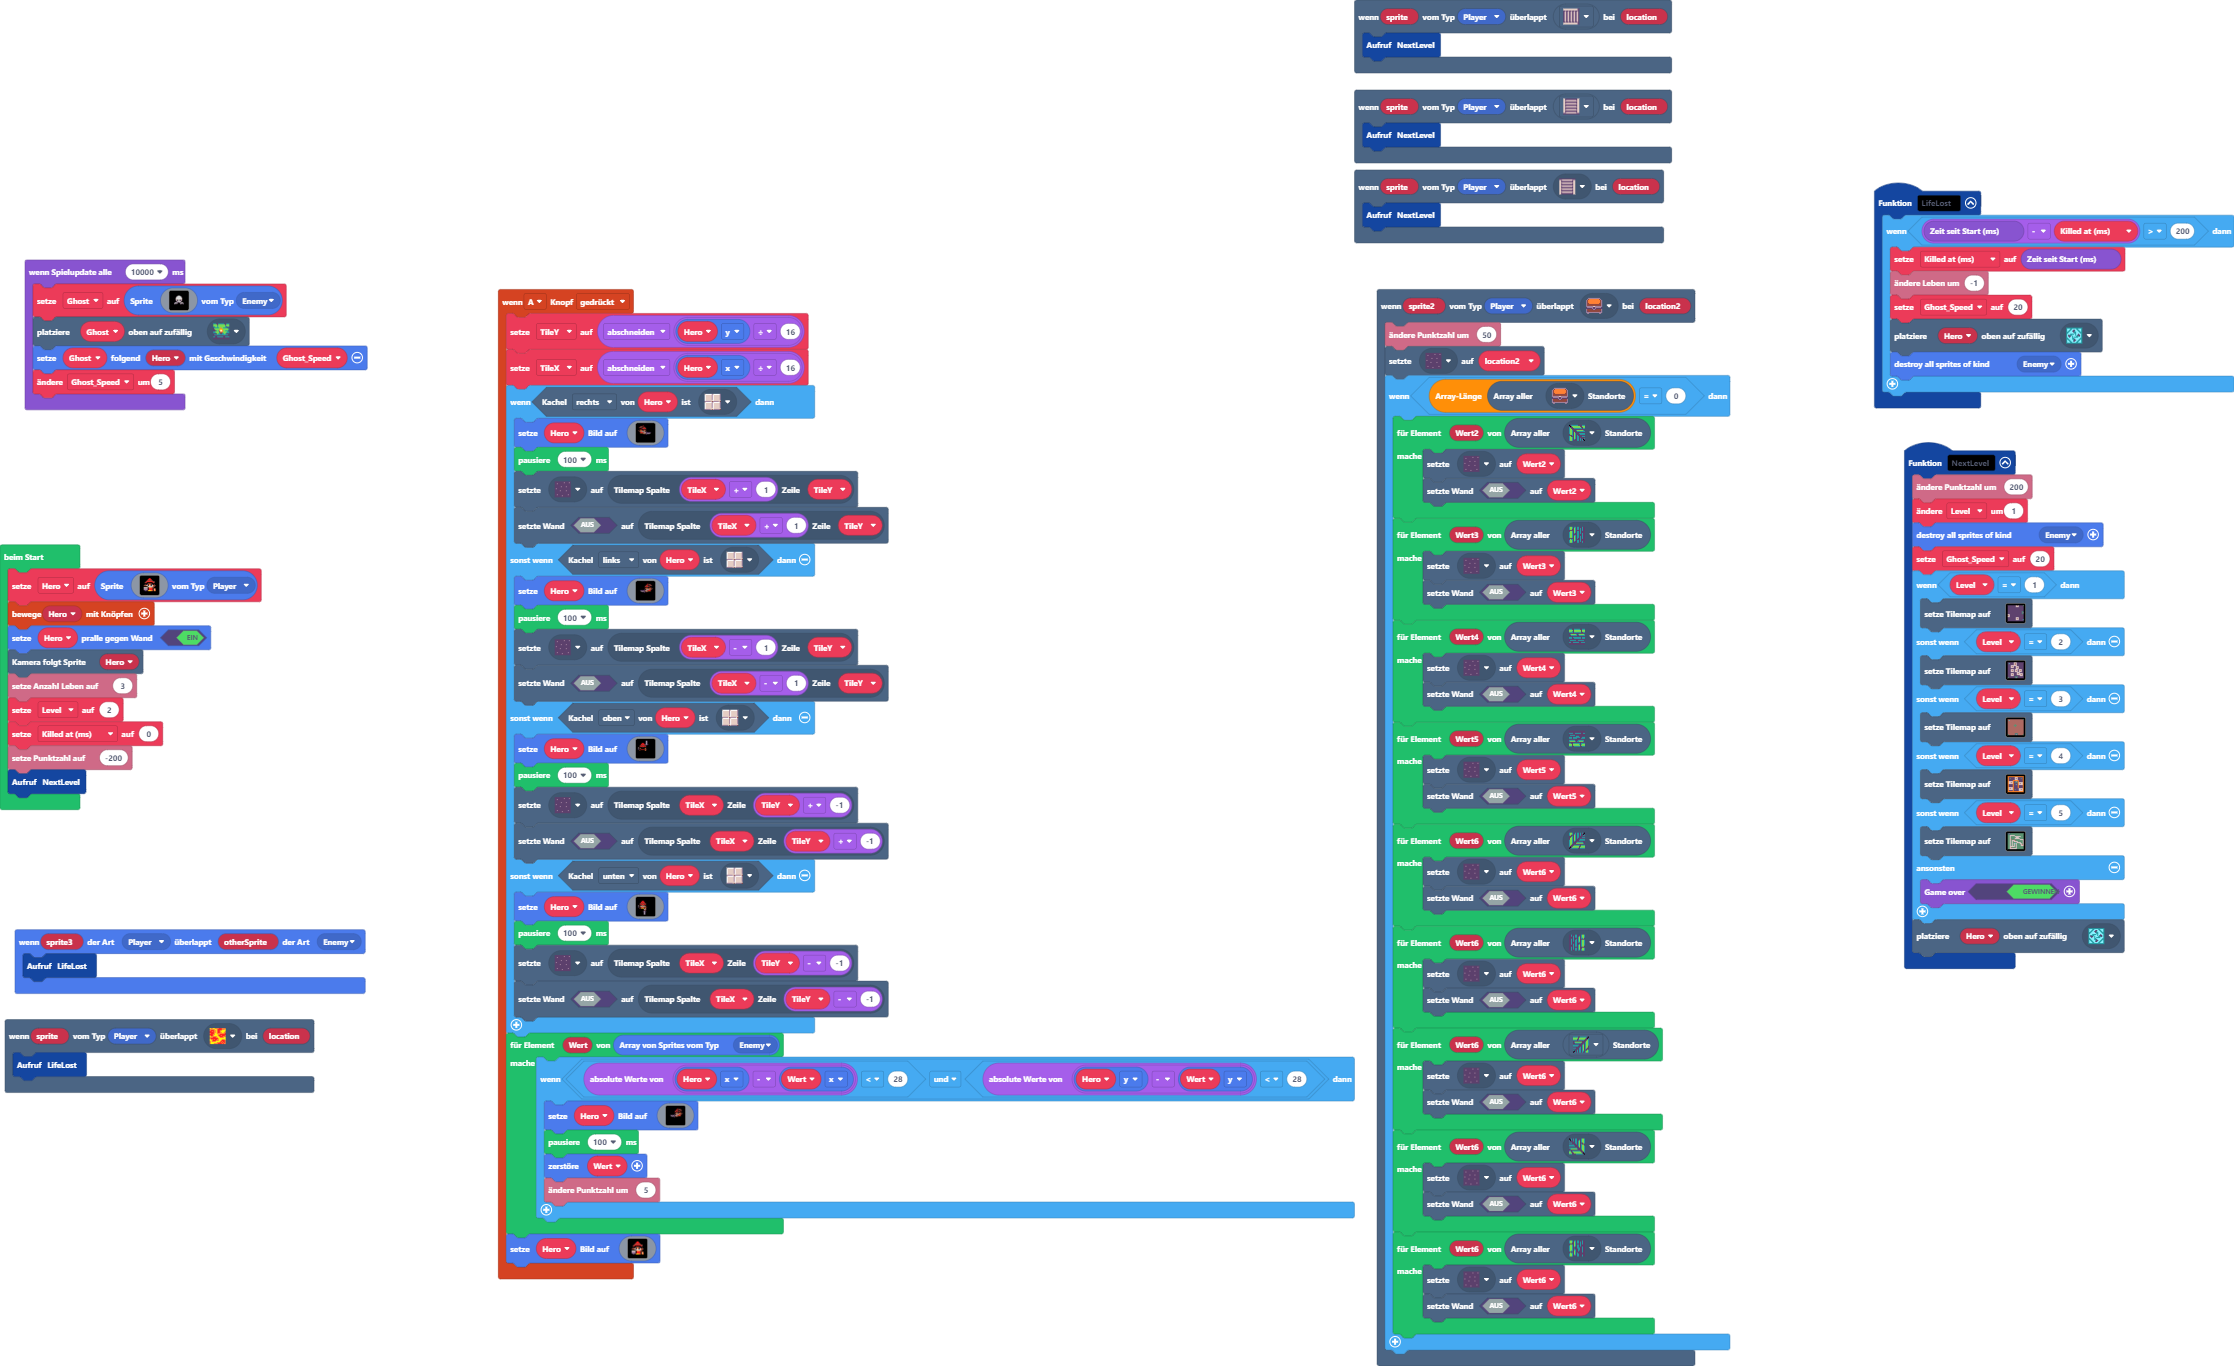
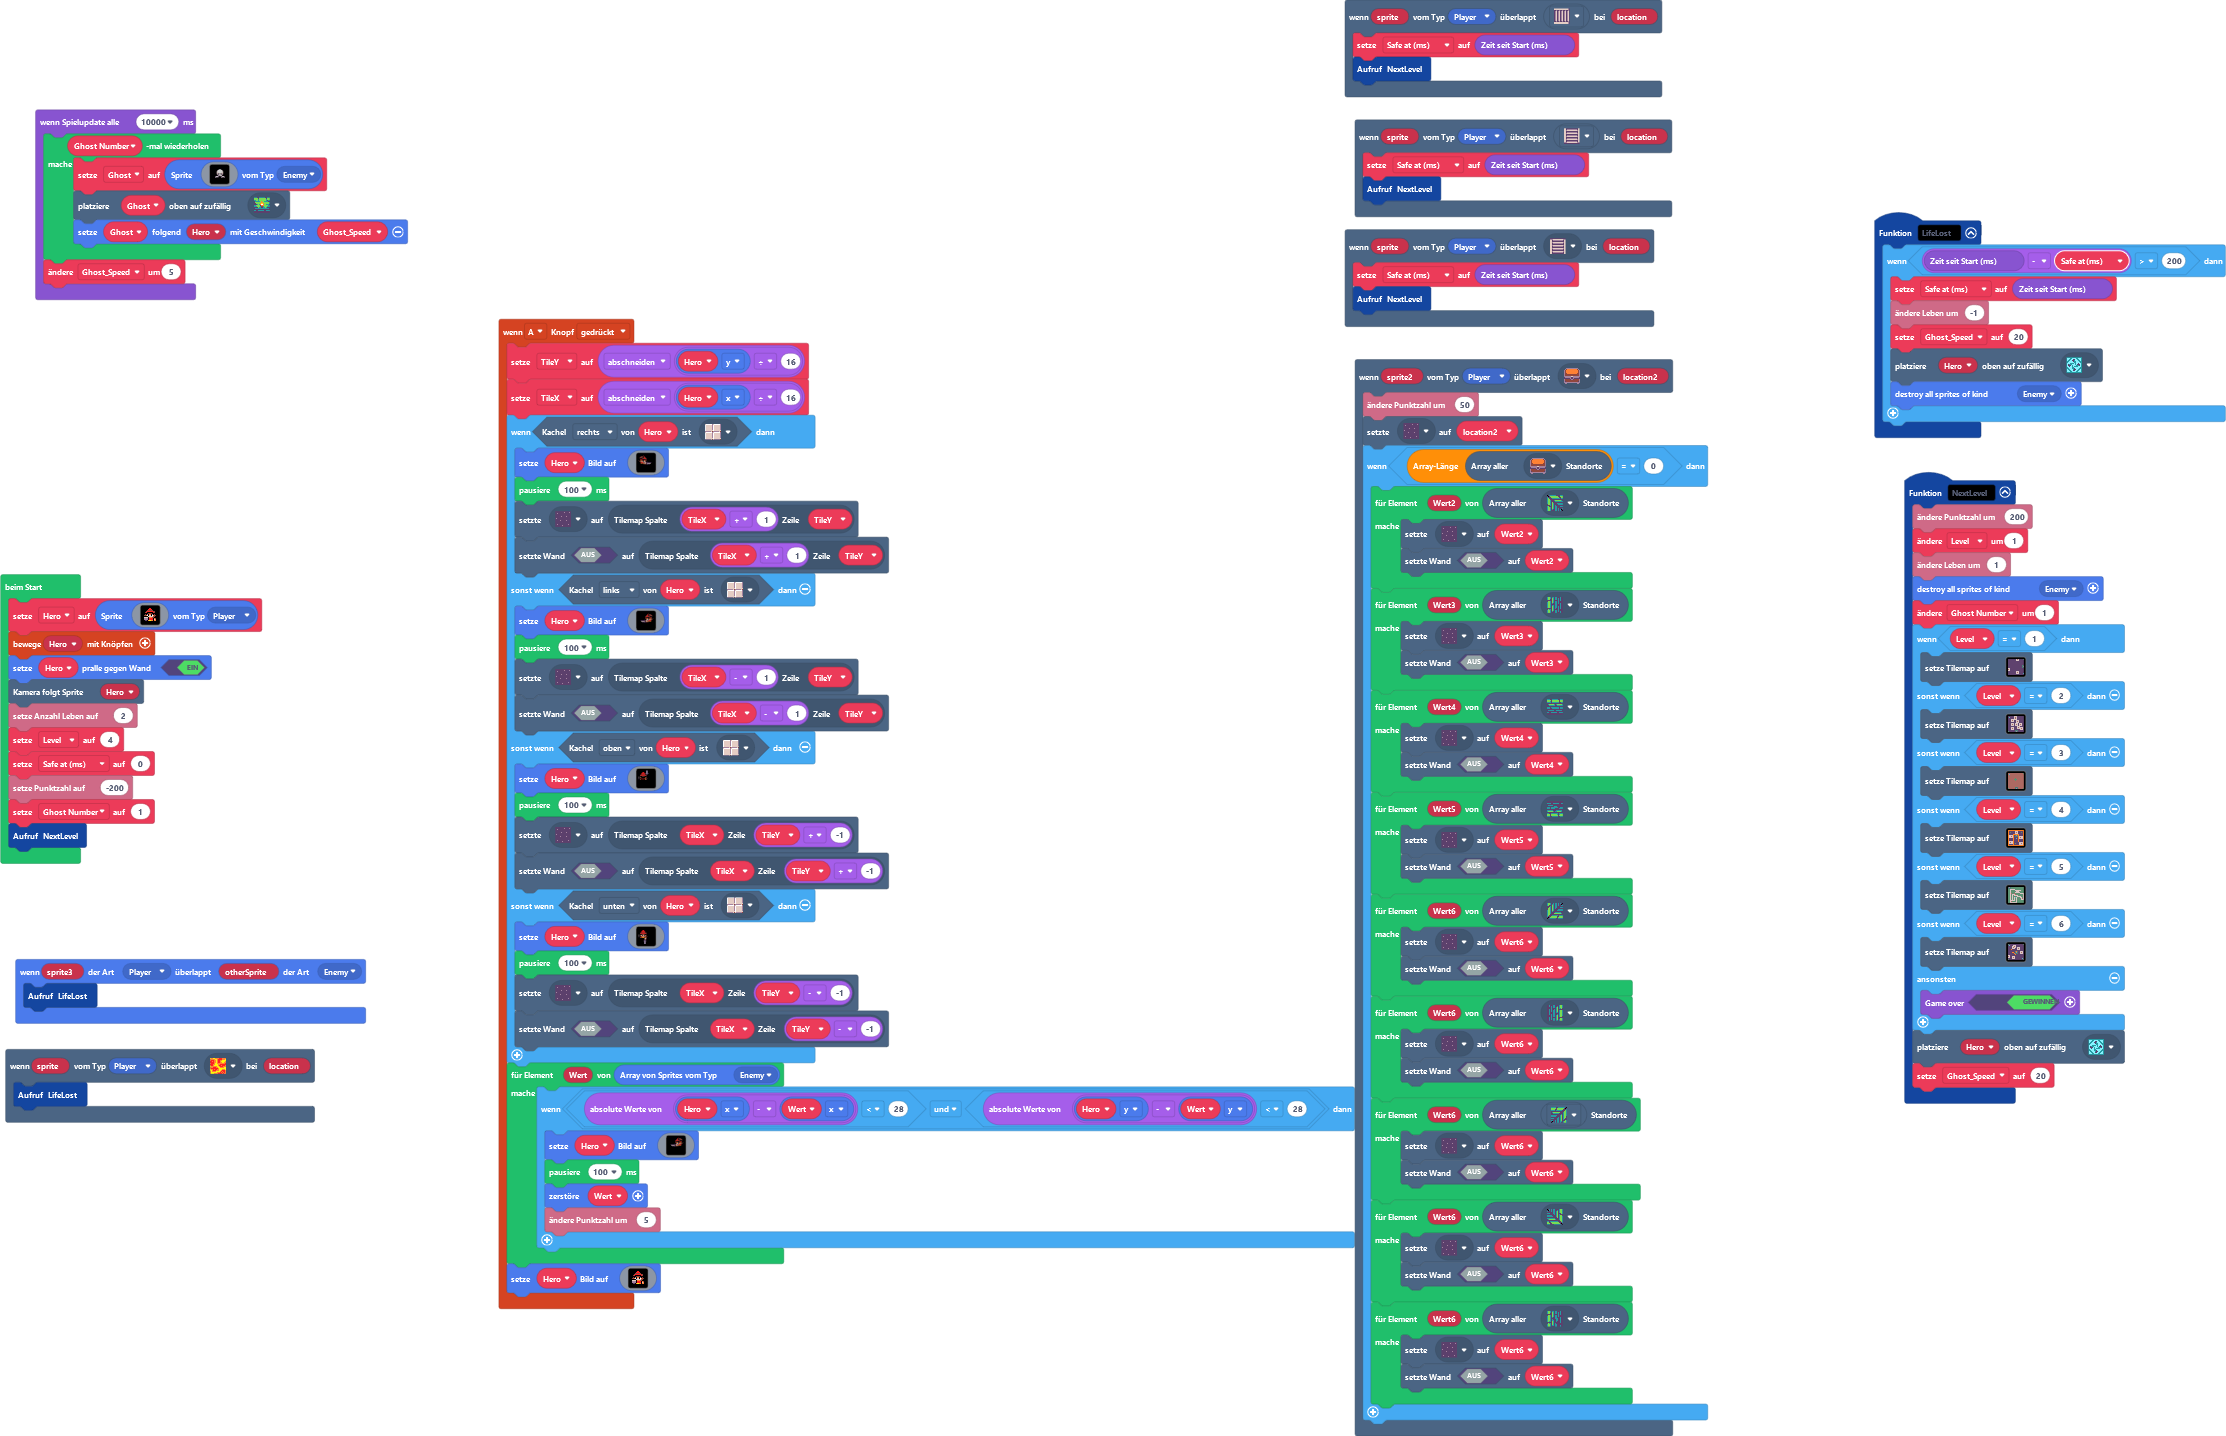
Aktualisiere main.blocks, main.ts, tilemap.g.jres, tilemap.g.ts

diff --git a/tilemap.g.ts b/tilemap.g.ts
@@ -83,25 +83,6 @@ namespace myTiles {
 . . . . . . . . . . . 2 2 2 2 . 
 . . . . . . . . . . . . . . . . 
 `, [myTiles.transparency16,myTiles.tile1,sprites.dungeon.hazardLava1,sprites.dungeon.darkGroundCenter,sprites.dungeon.collectibleInsignia,sprites.dungeon.greenOuterSouth0,sprites.dungeon.greenOuterSouthEast,sprites.dungeon.greenOuterSouthWest,sprites.dungeon.greenOuterWest1,sprites.dungeon.greenOuterEast0,sprites.dungeon.chestClosed,sprites.dungeon.greenOuterNorth2,sprites.dungeon.stairSouth], TileScale.Sixteen);
-            case "Level4":
-            case "Level4":return tiles.createTilemap(hex`1000100000000000000000000000000000000000000000000000000000000000000000000000000000000000000000000000000000000000000000000000000000000000000000000000000000000000000000000000000000000000000000000000000000000000000000000000000000000000000000000000000000000000000000000000000000000000000000000000000000000000000000000000000000000000000000000000000000000000000000000000000000000000000000000000000000000000000000000000000000000000000000000000000000000000000000000000000000000000000000000000000000000000000000000000000000000000`, img`
-. . . . . . . . . . . . . . . . 
-. . . . . . . . . . . . . . . . 
-. . . . . . . . . . . . . . . . 
-. . . . . . . . . . . . . . . . 
-. . . . . . . . . . . . . . . . 
-. . . . . . . . . . . . . . . . 
-. . . . . . . . . . . . . . . . 
-. . . . . . . . . . . . . . . . 
-. . . . . . . . . . . . . . . . 
-. . . . . . . . . . . . . . . . 
-. . . . . . . . . . . . . . . . 
-. . . . . . . . . . . . . . . . 
-. . . . . . . . . . . . . . . . 
-. . . . . . . . . . . . . . . . 
-. . . . . . . . . . . . . . . . 
-. . . . . . . . . . . . . . . . 
-`, [myTiles.transparency16], TileScale.Sixteen);
             case "Level_5":
[1 lines of base64/hex data omitted]
 2 . 2 . . . . . . . . . . . . . 
@@ -121,6 +102,44 @@ namespace myTiles {
 . . 2 . . . . . 2 . . . . . . . 
 . . 2 2 2 2 2 2 2 . . . . . . . 
 `, [myTiles.transparency16,myTiles.tile1,sprites.dungeon.collectibleInsignia,sprites.dungeon.greenOuterNorth2,sprites.dungeon.chestClosed,sprites.dungeon.stairNorth,sprites.dungeon.greenOuterSouthEast,sprites.dungeon.greenOuterSouthWest,sprites.dungeon.greenOuterSouth0,sprites.dungeon.greenOuterWest1,sprites.dungeon.greenOuterEast0], TileScale.Sixteen);
+            case "Level5":
+            case "Level5":return tiles.createTilemap(hex`1000100000000000000000000000000000000000000000000000000000000000000000000000000000000000000000000000000000000000000000000000000000000000000000000000000000000000000000000000000000000000000000000000000000000000000000000000000000000000000000000000000000000000000000000000000000000000000000000000000000000000000000000000000000000000000000000000000000000000000000000000000000000000000000000000000000000000000000000000000000000000000000000000000000000000000000000000000000000000000000000000000000000000000000000000000000000000`, img`
+. . . . . . . . . . . . . . . . 
+. . . . . . . . . . . . . . . . 
+. . . . . . . . . . . . . . . . 
+. . . . . . . . . . . . . . . . 
+. . . . . . . . . . . . . . . . 
+. . . . . . . . . . . . . . . . 
+. . . . . . . . . . . . . . . . 
+. . . . . . . . . . . . . . . . 
+. . . . . . . . . . . . . . . . 
+. . . . . . . . . . . . . . . . 
+. . . . . . . . . . . . . . . . 
+. . . . . . . . . . . . . . . . 
+. . . . . . . . . . . . . . . . 
+. . . . . . . . . . . . . . . . 
+. . . . . . . . . . . . . . . . 
+. . . . . . . . . . . . . . . . 
+`, [myTiles.transparency16], TileScale.Sixteen);
+            case "Level_6":
[1 lines of base64/hex data omitted]
+. . . . . . . . . . . . . . . . 
+. . . . . 2 2 2 . . . . . . . . 
+. . . . 2 2 . 2 . . . . . . . . 
+. . . . 2 . 2 2 . 2 2 2 . . . . 
+. . . . 2 2 2 . . 2 . 2 . . . . 
+. . . . . . . . . 2 2 2 . . . . 
+. . . . . . . . . . . . . . . . 
+. . . . . . . . . 2 . . 2 2 2 . 
+. . . . . . . 2 . 2 . . 2 . 2 . 
+. . . . . . . 2 2 2 . . 2 2 2 . 
+. . . . . . . . . . . . . . . . 
+2 2 . . . . . . . . . . . . . . 
+. 2 . . 2 2 2 . . . . . . . . . 
+2 2 . . 2 . 2 . . . . . . . . . 
+. . . . 2 2 2 . . . . . . . . . 
+. . . . . . . . . . . . . . . . 
+`, [myTiles.transparency16,sprites.dungeon.darkGroundCenter,sprites.dungeon.collectibleInsignia,sprites.dungeon.hazardLava0,sprites.dungeon.greenOuterNorth2,myTiles.tile1,sprites.dungeon.stairSouth,sprites.dungeon.greenOuterSouthEast,sprites.dungeon.greenOuterSouth0,sprites.dungeon.greenOuterSouthWest,sprites.dungeon.greenOuterEast0,sprites.dungeon.greenOuterWest0,sprites.dungeon.greenOuterNorthEast,sprites.dungeon.chestClosed], TileScale.Sixteen);
         }
         return null;
     })

diff --git a/main.ts b/main.ts
@@ -1,4 +1,5 @@
 scene.onOverlapTile(SpriteKind.Player, sprites.dungeon.stairNorth, function (sprite, location) {
+    Safe_at_ms = game.runtime()
     NextLevel()
 })
 sprites.onOverlap(SpriteKind.Player, SpriteKind.Enemy, function (sprite3, otherSprite) {
@@ -39,6 +40,7 @@ controller.A.onEvent(ControllerButtonEvent.Pressed, function () {
     Hero.setImage(assets.image`Normal`)
 })
 scene.onOverlapTile(SpriteKind.Player, sprites.dungeon.stairWest, function (sprite, location) {
+    Safe_at_ms = game.runtime()
     NextLevel()
 })
 scene.onOverlapTile(SpriteKind.Player, sprites.dungeon.chestClosed, function (sprite2, location2) {
@@ -87,8 +89,8 @@ scene.onOverlapTile(SpriteKind.Player, sprites.dungeon.hazardLava1, function (sp
     LifeLost()
 })
 function LifeLost () {
-    if (game.runtime() - Killed_at_ms > 200) {
-        Killed_at_ms = game.runtime()
+    if (game.runtime() - Safe_at_ms > 200) {
+        Safe_at_ms = game.runtime()
         info.changeLifeBy(-1)
         Ghost_Speed = 20
         tiles.placeOnRandomTile(Hero, sprites.dungeon.collectibleInsignia)
@@ -98,8 +100,9 @@ function LifeLost () {
 function NextLevel () {
     info.changeScoreBy(200)
     Level += 1
+    info.changeLifeBy(1)
     sprites.destroyAllSpritesOfKind(SpriteKind.Enemy)
-    Ghost_Speed = 20
+    Ghost_Number += 1
     if (Level == 1) {
         tiles.setTilemap(tilemap`Level_1`)
     } else if (Level == 2) {
@@ -110,33 +113,40 @@ function NextLevel () {
         tiles.setTilemap(tilemap`Level_4`)
     } else if (Level == 5) {
         tiles.setTilemap(tilemap`Level_5`)
+    } else if (Level == 6) {
+        tiles.setTilemap(tilemap`Level_6`)
     } else {
         game.over(true)
     }
     tiles.placeOnRandomTile(Hero, sprites.dungeon.collectibleInsignia)
+    Ghost_Speed = 20
 }
 scene.onOverlapTile(SpriteKind.Player, sprites.dungeon.stairSouth, function (sprite, location) {
+    Safe_at_ms = game.runtime()
     NextLevel()
 })
 let Ghost: Sprite = null
 let Ghost_Speed = 0
 let TileX = 0
 let TileY = 0
-let Killed_at_ms = 0
+let Safe_at_ms = 0
 let Level = 0
 let Hero: Sprite = null
 Hero = sprites.create(assets.image`Normal`, SpriteKind.Player)
 controller.moveSprite(Hero)
 Hero.setBounceOnWall(true)
 scene.cameraFollowSprite(Hero)
-info.setLife(3)
-Level = 2
-Killed_at_ms = 0
+info.setLife(2)
+Level = 4
+Safe_at_ms = 0
 info.setScore(-200)
+let Ghost_Number = 1
 NextLevel()
 game.onUpdateInterval(10000, function () {
-    Ghost = sprites.create(assets.image`skellyFront`, SpriteKind.Enemy)
-    tiles.placeOnRandomTile(Ghost, sprites.dungeon.greenOuterNorth2)
-    Ghost.follow(Hero, Ghost_Speed)
+    for (let index = 0; index < Ghost_Number; index++) {
+        Ghost = sprites.create(assets.image`skellyFront`, SpriteKind.Enemy)
+        tiles.placeOnRandomTile(Ghost, sprites.dungeon.greenOuterNorth2)
+        Ghost.follow(Hero, Ghost_Speed)
+    }
     Ghost_Speed += 5
 })
